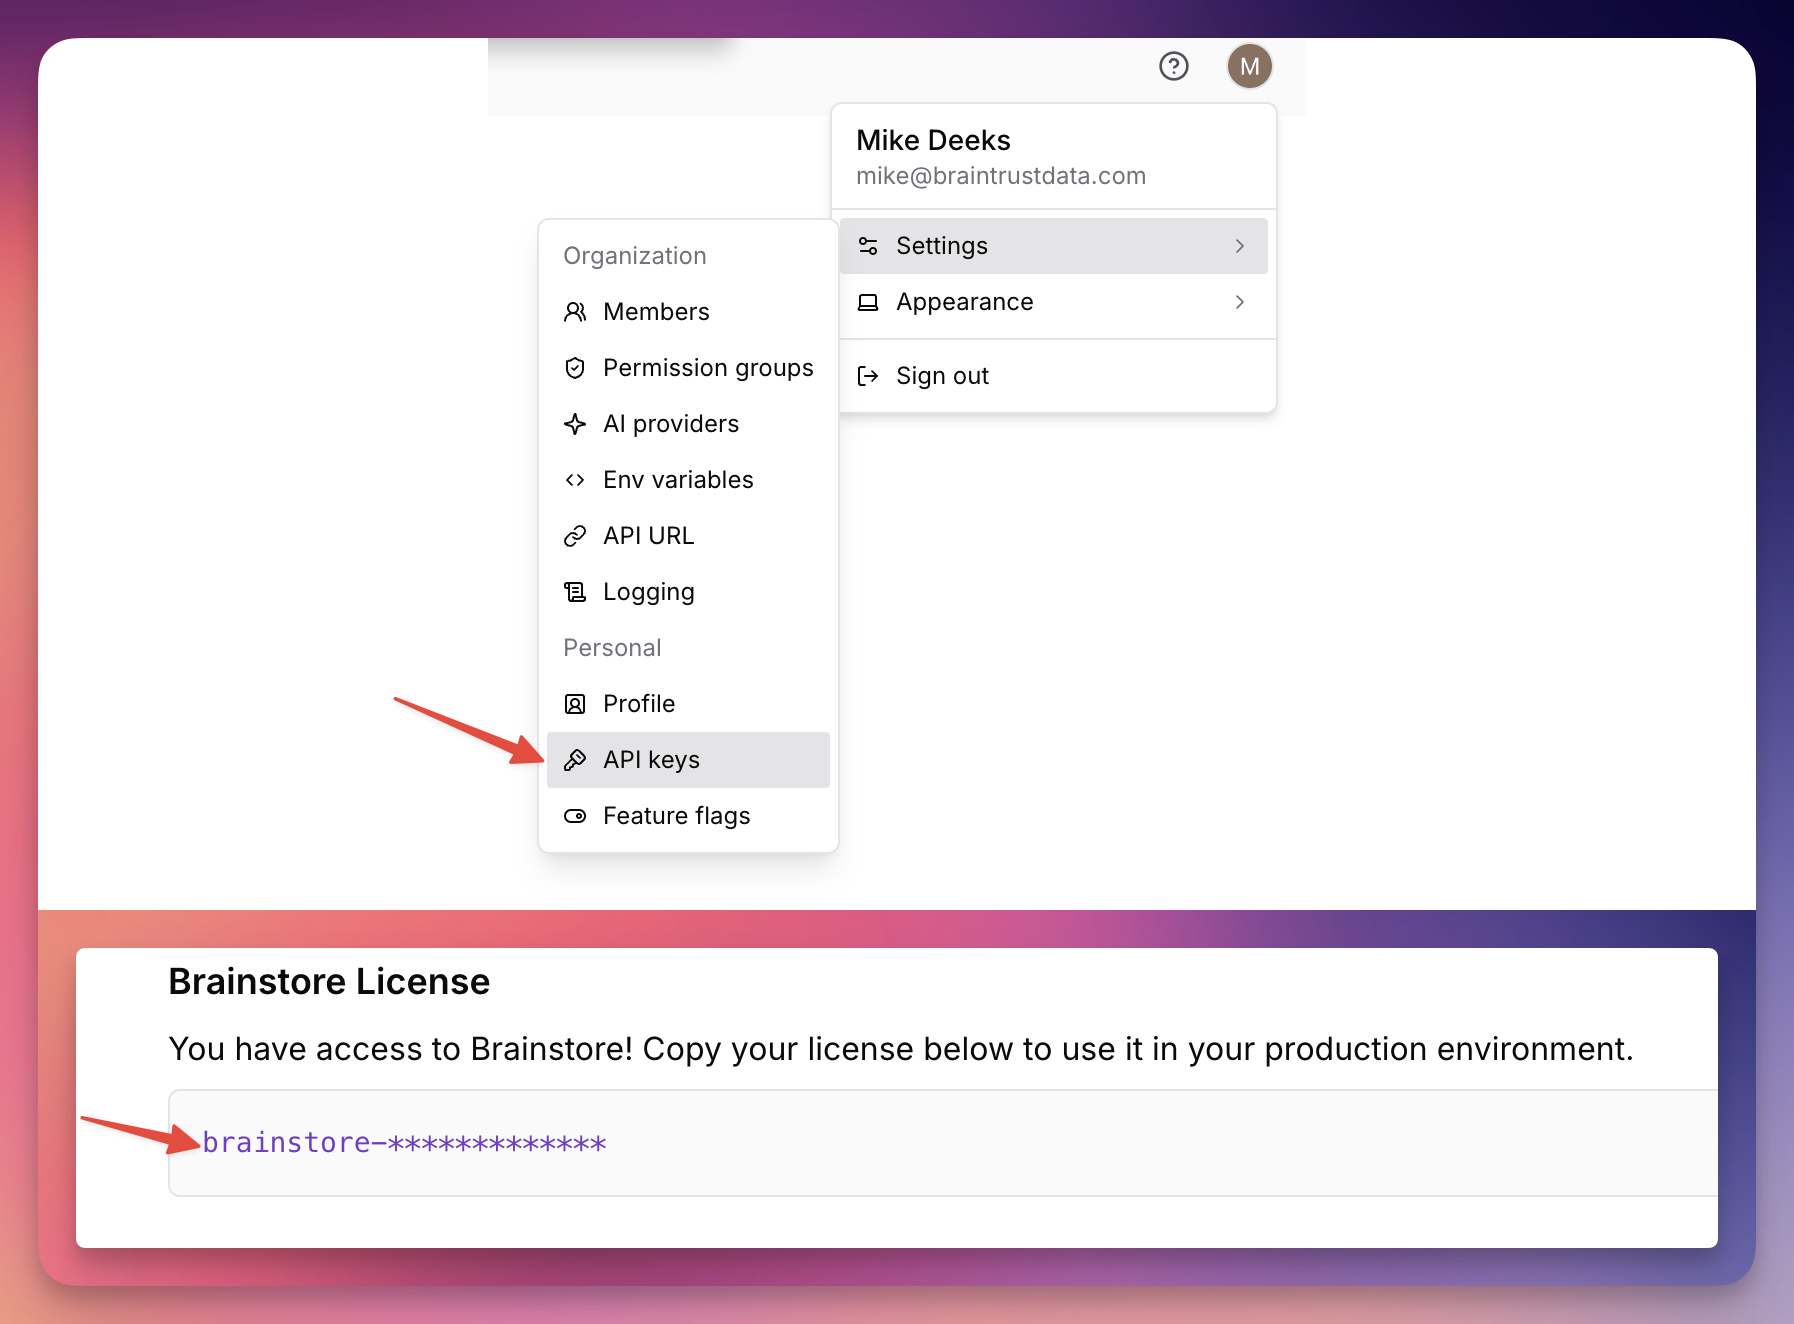
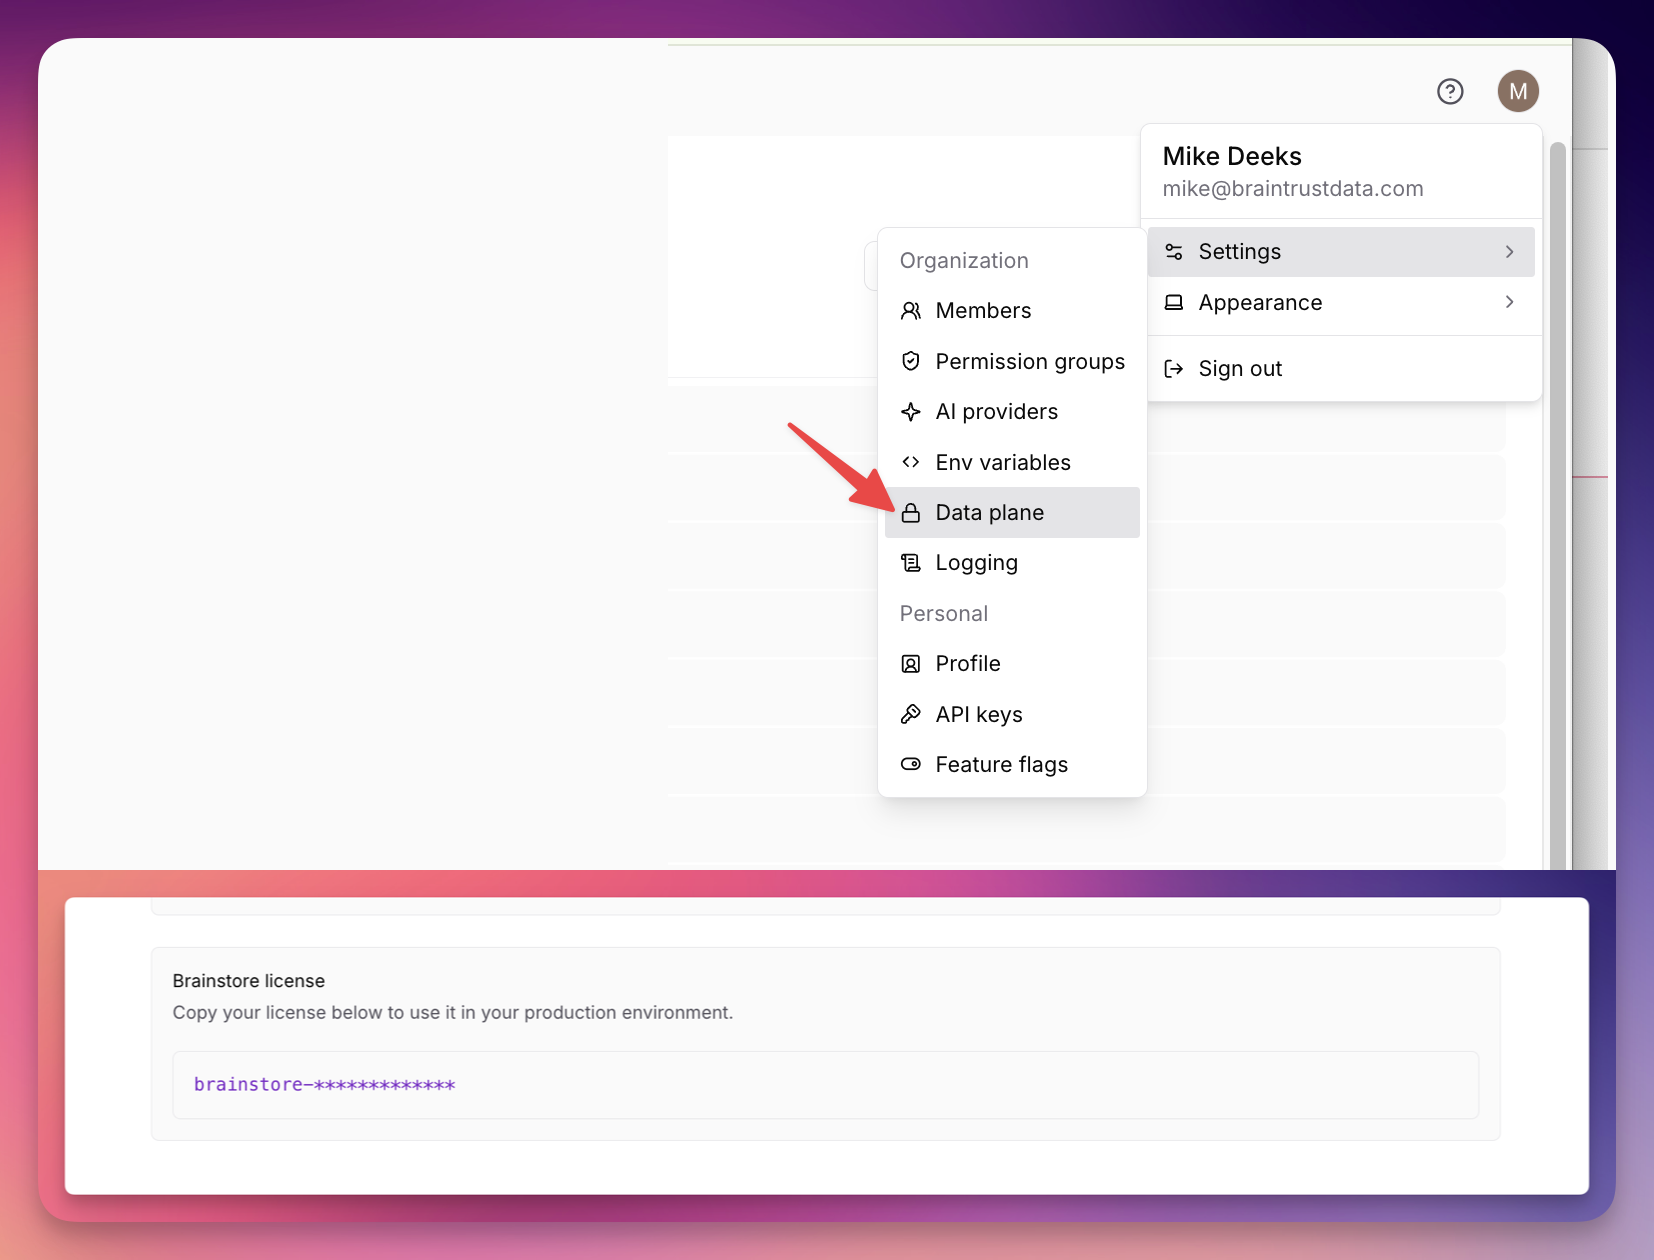
Doc update for new data plane UI (#44)
* Doc update for new data plane UI

* Update examples/braintrust-data-plane/README.md

---------

diff --git a/examples/braintrust-data-plane/README.md b/examples/braintrust-data-plane/README.md
@@ -4,7 +4,7 @@ This is an example of a standard Braintrust data plane deployment. Copy this dir
 * `provider.tf` should be modified to use your AWS account and region.
 * `terraform.tf` should be modified to use the remote backend that your company uses. Typically this is an S3 bucket and DynamoDB table.
 * `main.tf` should be modified to meet your needs for the Braintrust deployment. The defaults are sensible only for a small development deployment.
-* Brainstore requires a license key which you can find in the Braintrust UI under Settings > API
+* Brainstore requires a license key which you can find in the Braintrust UI under Settings > Data Plane
 ![Brainstore License Key](../../assets/Brainstore-License-Key.png)
 * It isn't recommended that you commit this license key to your git repo. You can safely pass this key into terraform multiple ways:
   * Set `TF_VAR_brainstore_license_key=your-key` in your terraform environment
@@ -22,13 +22,20 @@ After applying this configuration you will have a Braintrust data plane deployed
 api_url = "https://dx6ntff6gocr6.cloudfront.net"
 ```
 
-To configure your Organization to use your new data plane, click your user icon on the top right > Settings > API URL.
+To configure your Organization to use your new data plane, click your user icon on the top right > Settings > Data Plane.
 
 > [!WARNING]
 > If you are testing, it is HIGHLY recommended that [you create a new Braintrust Organization](https://www.braintrust.dev/app/setup) for testing your new data plane. If you change your live Organization's API URL, you might break users who are currently using it.
 
-![Setting the API URL in Braintrust](/assets/Braintrust-API-URL.png)
+![Setting the API URL in Braintrust](../../assets/Braintrust-API-URL.png)
 
-Paste the API URL into the text field and click Save. Click to copy the test ping command and run it in your terminal to verify that your data plane is working.
+Click Edit
 
-![Verifying the API URL in Braintrust](/assets/Braintrust-API-URL-2.png)
+![Edit the API URL in Braintrust](../../assets/Braintrust-API-URL-Edit.png)
+
+Paste the API URL into the text field, and click Save. Leave the Proxy and Realtime URL blank.
+
+![Paste the API URL](../../assets/Braintrust-API-URL-set.png)
+
+Verify in the UI that the ping to each endpoint is successful.
+![Verify Successful Ping](../../assets/Braintrust-API-URL-verify.png)
